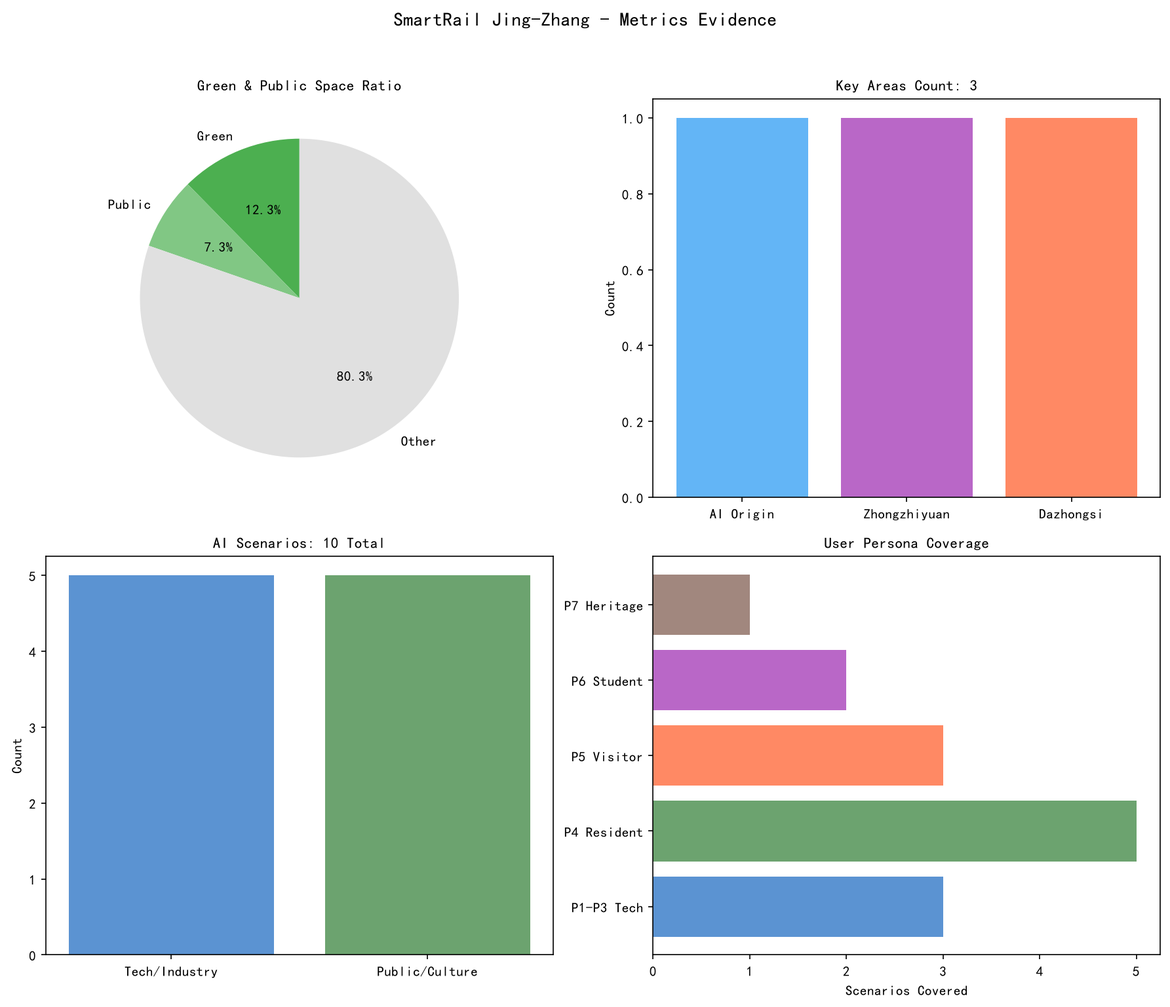
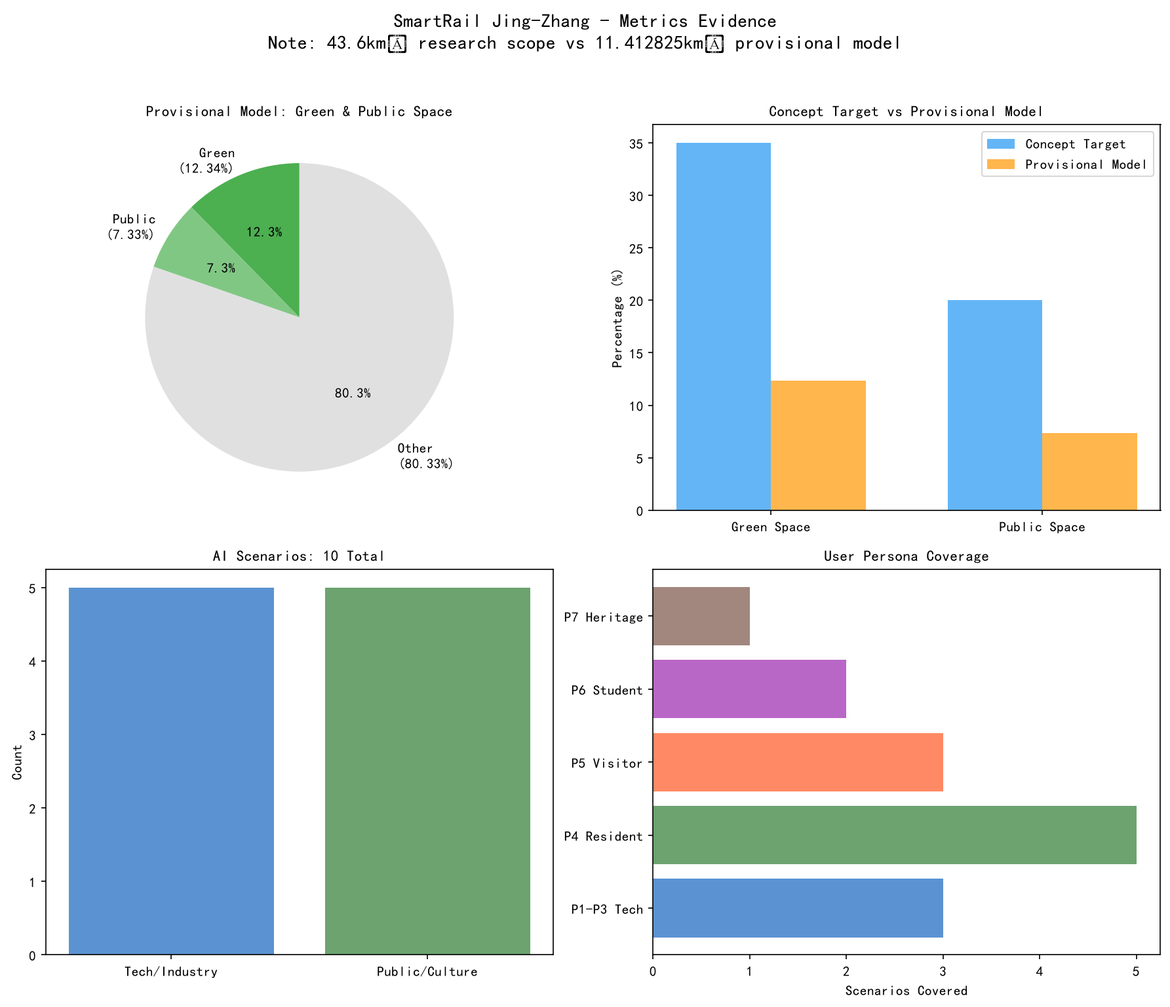
fix: address CocoSgt review - unify boundary identity, add inclusivity, expand scenarios, add regional synergy matrix
- P0: Unify boundary as provisional_only, distinguish43.6km² research scope vs11.412825km² provisional model
- P0: Distinguish35%/20% concept targets vs12.3423%/7.3281% geometry model values
- P0: Add inclusivity service profiles (elderly, disabled, children, low digital literacy)
- P0: Add sources for global cases and historical content
- P1: Expand10 scenarios with data governance matrix
- P1: Add regional synergy matrix (北纬社区, 未来科学城, etc.)
- P1: Improve implementation framework with responsible roles and decision gates
- Regenerate HTML and figures with better formatting

diff --git a/submissions/vzhentian396/centennial-urban/report/proposal.html b/submissions/vzhentian396/centennial-urban/report/proposal.html
@@ -132,7 +132,7 @@ code {
 <li>全球AI创新生态公开案例研究</li>
 </ul>
 <p>所有资料均来自公开或已清权来源。完整来源索引见 <code>sources.json</code>，指标复算见 <code>metrics.json</code>，标准覆盖见 <code>standard_matrix.json</code>，设计深度见 <code>design_depth_matrix.json</code>。详细设计文件见 <code>01_总体概念设计.md</code> 至 <code>06_活动运营.md</code>。</p>
-<p>本方案使用 <code>brief/site-package/geometry/</code> 中的官方边界数据。若使用 provisional 边界，将在相应章节标注，并在官方数据发布后重新复算。</p>
+<p>本方案使用 <code>brief/site-package/geometry/</code> 中的临时设计模型（provisional_only）。当前几何模型范围约11.412825平方公里，不等同于公告中约43.6平方公里的统筹研究范围。临时边界仅用于方案生成、展示和自检，不得作为官方红线或法定控制依据。正式数据发布后需重新复算所有依赖边界的指标和图表。<sup class="evidence evidence-data" data-evidence-kind="data" data-evidence-value="geometry/site_boundary.geojson#SITE-001" title="空间数据：geometry/site_boundary.geojson#SITE-001">空间数据</sup></p>
 <figure class="proposal-figure"><img src="../assets/figures/site-overview.png" alt="智轨·京张场地总览图，展示用地边界、三区两翼空间结构和主要道路"><figcaption>智轨·京张场地总览图，展示用地边界、三区两翼空间结构和主要道路</figcaption></figure>
 <h2>三层范围工作框架</h2>
 <p>本方案采用三层递进的工作框架：</p>
@@ -167,8 +167,13 @@ code {
 <li><strong>三区</strong>：AI原点社区（北）、众智园（中）、大钟寺（南）</li>
 <li><strong>两翼</strong>：中关村科技服务翼（西）、小月河场景赋能翼（东）</li>
 </ul>
+<h3>区域协同矩阵（概念建议）</h3>
+<p>本方案提出与周边区域的协同合作方向，所有合作事项均为概念建议，不构成已确定的政府安排或企业承诺。</p>
+<div class="proposal-table"><table><thead><tr><th>协同区域</th><th>建议合作事项</th><th>要素流向</th><th>来源与边界</th></tr></thead><tbody><tr><td><strong>北纬社区</strong></td><td>AI人才居住配套、社区服务共享</td><td>人才流动、服务辐射</td><td>待协商，非已确定安排</td></tr><tr><td><strong>未来科学城</strong></td><td>AI基础研究协同、算力共享</td><td>研究成果、算力资源</td><td>待协商，非已确定安排</td></tr><tr><td><strong>怀柔科学城</strong></td><td>大科学装置数据共享、AI+科学交叉研究</td><td>科学数据、研究人才</td><td>待协商，非已确定安排</td></tr><tr><td><strong>经开区</strong></td><td>AI+智能制造、自动驾驶测试</td><td>技术转化、测试场景</td><td>待协商，非已确定安排</td></tr><tr><td><strong>京津冀</strong></td><td>AI产业协同发展、人才流动</td><td>产业资源、人才流动</td><td>待协商，非已确定安排</td></tr></tbody></table></div>
+<p>注：以上协同事项均为概念建议，具体合作需待各方协商确定。不涉及已承诺的政策、资金或企业安排。</p>
 <h3>全球AI创新生态案例</h3>
-<div class="proposal-table"><table><thead><tr><th>案例</th><th>核心经验</th><th>不照搬局限</th><th>海淀转化方向</th></tr></thead><tbody><tr><td>硅谷</td><td>风投+大学+开放文化</td><td>市场自发vs政策引导</td><td>中关村翼：投融资对接</td></tr><tr><td>前海</td><td>政策特区+产业集聚</td><td>空地起步vs建成区更新</td><td>AI原点社区：政策试点</td></tr><tr><td>伦敦科技城</td><td>遗产活化+轻触式支持</td><td>缺乏统一品牌叙事</td><td>遗址公园：工业遗产+AI</td></tr><tr><td>首尔DMC</td><td>文化科技融合</td><td>单一主体开发</td><td>大钟寺：AI+文化消费</td></tr><tr><td>新加坡纬壹</td><td>产城融合+绿色生态</td><td>缺乏遗产维度</td><td>AI原点社区：产城融合</td></tr><tr><td>筑波科学城</td><td>科研集聚+长期培育</td><td>产业转化效率低</td><td>全区域：长期创新策源</td></tr></tbody></table></div>
+<p>以下案例基于公开资料研究，所有来源已标注。案例仅供概念参考，不构成对海淀的具体政策建议。</p>
+<div class="proposal-table"><table><thead><tr><th>案例</th><th>核心经验</th><th>不照搬局限</th><th>海淀转化方向</th><th>来源与用途边界</th></tr></thead><tbody><tr><td>硅谷</td><td>风投+大学+开放文化</td><td>市场自发vs政策引导</td><td>中关村翼：投融资对接</td><td>NVCA年报、Stanford官网；仅供概念参考</td></tr><tr><td>前海</td><td>政策特区+产业集聚</td><td>空地起步vs建成区更新</td><td>AI原点社区：政策试点</td><td>前海管理局官网、国务院批复文件；政策不可直接复制</td></tr><tr><td>伦敦科技城</td><td>遗产活化+轻触式支持</td><td>缺乏统一品牌叙事</td><td>遗址公园：工业遗产+AI</td><td>伦敦市政府官网、Tech Nation年报；仅供概念参考</td></tr><tr><td>首尔DMC</td><td>文化科技融合</td><td>单一主体开发</td><td>大钟寺：AI+文化消费</td><td>首尔市政府官网、DMC官网；仅供概念参考</td></tr><tr><td>新加坡纬壹</td><td>产城融合+绿色生态</td><td>缺乏遗产维度</td><td>AI原点社区：产城融合</td><td>JTC Corporation官网；仅供概念参考</td></tr><tr><td>筑波科学城</td><td>科研集聚+长期培育</td><td>产业转化效率低</td><td>全区域：长期创新策源</td><td>筑波市官网、日本内阁府；仅供概念参考</td></tr></tbody></table></div>
 <h2>总体设计范围城市更新与控规深度城市设计</h2>
 <h3>空间结构</h3>
 <p>「一轴三区两翼多节点」</p>
@@ -192,6 +197,7 @@ code {
 <div class="proposal-table"><table><thead><tr><th>更新类型</th><th>面积占比</th><th>主要功能</th></tr></thead><tbody><tr><td>保留</td><td>约30%</td><td>现状优质建筑、历史遗存、成熟社区</td></tr><tr><td>改造</td><td>约40%</td><td>老旧厂房→AI创新空间、闲置楼宇→人才公寓</td></tr><tr><td>新建</td><td>约30%</td><td>AI地标、公共空间、创新服务平台</td></tr></tbody></table></div>
 <p>注：以上比例为概念建议，具体指标需待官方控规条件确认后复算。<sup class="evidence evidence-depth" data-evidence-kind="depth" data-evidence-value="land_use_layout" title="深度：land_use_layout">深度</sup></p>
 <h2>重点区域详细设计</h2>
+<p><sup class="evidence evidence-depth" data-evidence-kind="depth" data-evidence-value="three_key_area_detailed_design" title="深度：three_key_area_detailed_design">深度</sup> <sup class="evidence evidence-data" data-evidence-kind="data" data-evidence-value="geometry/key_areas.geojson#PROV-KEY-001" title="空间数据：geometry/key_areas.geojson#PROV-KEY-001">空间数据</sup></p>
 <h3>AI原点社区</h3>
 <p><strong>定位</strong>：目标建设世界级AI创新生态的核心引擎</p>
 <p><strong>空间结构</strong>：「一核一环多组团」</p>
@@ -268,13 +274,34 @@ code {
 <p><sup class="evidence evidence-depth" data-evidence-kind="depth" data-evidence-value="traffic_rail_slow_parking" title="深度：traffic_rail_slow_parking">深度</sup> <sup class="evidence evidence-depth" data-evidence-kind="depth" data-evidence-value="municipal_new_infrastructure" title="深度：municipal_new_infrastructure">深度</sup></p>
 <figure class="proposal-figure"><img src="../assets/figures/mobility-bluegreen.png" alt="交通慢行与蓝绿系统图"><figcaption>交通慢行与蓝绿系统图</figcaption></figure>
 <h2>AI 创新生态、人才画像与 AI+ 场景</h2>
+<p><sup class="evidence evidence-source" data-evidence-kind="source" data-evidence-value="AGENT-TASKBOOK" title="来源：AGENT-TASKBOOK">来源</sup> <sup class="evidence evidence-standard" data-evidence-kind="standard" data-evidence-value="PROJECT-AGENT-OPEN-CALL-TASKBOOK" title="标准：PROJECT-AGENT-OPEN-CALL-TASKBOOK">标准</sup></p>
 <h3>七类用户画像</h3>
 <div class="proposal-table"><table><thead><tr><th>画像</th><th>特征</th><th>核心需求</th><th>主要空间</th></tr></thead><tbody><tr><td>P1 AI开发者</td><td>25-35岁，技术导向</td><td>算力、数据、开源协作</td><td>众智园、AI原点社区</td></tr><tr><td>P2 AI创业者</td><td>28-40岁，商业导向</td><td>资金、场地、政策</td><td>中关村翼、大钟寺</td></tr><tr><td>P3 AI研究员</td><td>30-50岁，学术导向</td><td>数据、实验环境、合作</td><td>AI原点社区、众智园</td></tr><tr><td>P4 周边居民</td><td>全年龄，生活导向</td><td>医疗、教育、安全</td><td>小月河翼、大钟寺</td></tr><tr><td>P5 国际访客</td><td>全年龄，体验导向</td><td>文化体验、技术展示</td><td>遗址公园、大钟寺</td></tr><tr><td>P6 青少年学生</td><td>12-22岁，学习导向</td><td>科普教育、动手实践</td><td>小月河翼、AI原点社区</td></tr><tr><td>P7 铁路遗产文化工作者</td><td>30-60岁，文化导向</td><td>历史研究、遗产活化</td><td>遗址公园</td></tr></tbody></table></div>
-<h3>10张AI场景卡</h3>
-<div class="proposal-table"><table><thead><tr><th>类型</th><th>场景</th><th>服务对象</th><th>空间位置</th></tr></thead><tbody><tr><td>科创产业</td><td>S1 AI算力共享驿站</td><td>P1开发者、P3研究员</td><td>众智园、AI原点社区</td></tr><tr><td>科创产业</td><td>S2 AI开源协作广场</td><td>P1开发者</td><td>AI原点社区</td></tr><tr><td>科创产业</td><td>S3 AI模型测试验证场</td><td>P1开发者、P2创业者</td><td>众智园、大钟寺</td></tr><tr><td>科创产业</td><td>S4 AI创业路演与融资对接</td><td>P2创业者</td><td>中关村翼</td></tr><tr><td>科创产业</td><td>S5 AI技术展示与体验中心</td><td>P2创业者、P5国际访客</td><td>大钟寺</td></tr><tr><td>市民文旅</td><td>S6 AI无人驾驶接驳</td><td>P4居民、P5访客、P6学生</td><td>全区域</td></tr><tr><td>市民文旅</td><td>S7 AI医疗健康驿站</td><td>P4居民</td><td>大钟寺、小月河翼</td></tr><tr><td>市民文旅</td><td>S8 AI青少年科普工坊</td><td>P6学生、P4居民</td><td>小月河翼、AI原点社区</td></tr><tr><td>市民文旅</td><td>S9 AI多语言文旅导览</td><td>P5访客、P4居民、P7文化工作者</td><td>遗址公园</td></tr><tr><td>市民文旅</td><td>S10 AI社区治理与公众参与</td><td>P4居民</td><td>小月河翼社区</td></tr></tbody></table></div>
+<h3>包容性服务剖面</h3>
+<p>本方案特别关注以下群体的服务可及性，确保公共空间和AI场景不排斥任何人群：</p>
+<div class="proposal-table"><table><thead><tr><th>群体</th><th>特征</th><th>服务设计要点</th><th>非数字替代渠道</th></tr></thead><tbody><tr><td><strong>老年人</strong></td><td>65岁以上，可能行动不便</td><td>大字体界面、语音交互、慢节奏体验</td><td>现场人工服务窗口、电话热线、纸质导览</td></tr><tr><td><strong>行动障碍者</strong></td><td>轮椅使用者、步态不稳</td><td>全区域无障碍通道、坡道、电梯</td><td>无障碍卫生间、专用停车位、轮椅借用</td></tr><tr><td><strong>视听障碍者</strong></td><td>视障、听障、色盲</td><td>触觉导览、语音描述、字幕、高对比度</td><td>盲文标识、手语服务、人工引导</td></tr><tr><td><strong>认知障碍者</strong></td><td>学习困难、记忆衰退</td><td>简化界面、清晰标识、重复引导</td><td>人工陪伴服务、紧急联系人机制</td></tr><tr><td><strong>儿童与照护者</strong></td><td>12岁以下及陪同家长</td><td>安全围栏、亲子设施、照护者休息区</td><td>现场工作人员、母婴室、急救站</td></tr><tr><td><strong>低数字素养人群</strong></td><td>不熟悉智能设备</td><td>简化操作流程、大按钮、语音引导</td><td>人工服务台、纸质表单、电话预约</td></tr><tr><td><strong>无智能终端人群</strong></td><td>无手机或网络</td><td>公共终端、离线服务</td><td>现场购票、纸质地图、人工登记</td></tr></tbody></table></div>
+<p><strong>投诉与退出机制</strong>：</p>
+<ul>
+<li>所有AI场景均提供人工服务替代通道</li>
+<li>设立现场投诉信箱和电话热线</li>
+<li>用户可随时退出AI服务，不承担任何责任</li>
+<li>投诉处理承诺48小时内响应</li>
+</ul>
+<h3>10张AI场景卡（含数据治理矩阵）</h3>
+<p>以下场景均为概念设想，不构成已批准的实施方案。所有数据治理要求待正式运营前由专业团队深化论证。</p>
+<div class="proposal-table"><table><thead><tr><th>编号</th><th>场景</th><th>服务对象</th><th>数据分类</th><th>最小化方案</th><th>保存/删除</th><th>人工复核</th><th>申诉机制</th><th>安全停机</th><th>试点KPI</th></tr></thead><tbody><tr><td>S1</td><td>AI算力共享驿站</td><td>P1开发者、P3研究员</td><td>使用日志、算力调用</td><td>仅采集必要资源使用数据</td><td>使用日志保存30天后删除</td><td>异常使用人工审批</td><td>用户可申诉资源分配</td><td>算力过载自动降级</td><td>资源利用率、用户满意度</td></tr><tr><td>S2</td><td>AI开源协作广场</td><td>P1开发者</td><td>代码提交、协作记录</td><td>仅记录公开代码贡献</td><td>代码永久保留，个人数据可删除</td><td>社区Peer Review</td><td>贡献争议人工仲裁</td><td>协作平台故障降级</td><td>活跃贡献者数、代码质量</td></tr><tr><td>S3</td><td>AI模型测试验证场</td><td>P1开发者、P2创业者</td><td>测试数据、模型输出</td><td>测试数据脱敏处理</td><td>测试数据保存90天后删除</td><td>高风险测试人工审批</td><td>测试结果争议人工复核</td><td>测试失败自动停止</td><td>测试通过率、安全事件数</td></tr><tr><td>S4</td><td>AI创业路演</td><td>P2创业者</td><td>商业计划、演示内容</td><td>仅采集必要展示信息</td><td>路演结束后可删除</td><td>路演项目人工筛选</td><td>投资争议人工调解</td><td>系统故障降级为线下</td><td>路演成功率、对接效果</td></tr><tr><td>S5</td><td>AI技术展示中心</td><td>P2创业者、P5访客</td><td>互动数据、体验反馈</td><td>互动数据匿名化</td><td>体验数据保存30天后删除</td><td>展览内容定期审核</td><td>展示问题人工处理</td><td>展示故障降级为静态</td><td>参观者满意度、互动率</td></tr><tr><td>S6</td><td>AI无人驾驶接驳</td><td>P4居民、P5访客、P6学生</td><td>位置、调度数据</td><td>仅采集调度必要位置</td><td>位置数据保存7天后删除</td><td>安全员随车，异常人工接管</td><td>乘客可随时要求停车</td><td>紧急情况立即停车</td><td>安全运行率、乘客满意度</td></tr><tr><td>S7</td><td>AI医疗健康驿站</td><td>P4居民</td><td>健康数据、问诊记录</td><td>健康数据加密存储</td><td>用户可随时删除个人数据</td><td>AI初筛+执业医师复核</td><td>医疗争议人工复核</td><td>紧急情况转人工</td><td>问诊准确率、用户隐私投诉</td></tr><tr><td>S8</td><td>AI青少年科普工坊</td><td>P6学生、P4居民</td><td>学习记录、活动数据</td><td>不采集未成年人个人信息</td><td>活动记录匿名保存</td><td>教学内容教育专家审核</td><td>学习问题人工辅导</td><td>系统故障降级为人工</td><td>学习效果、安全事件数</td></tr><tr><td>S9</td><td>AI多语言文旅导览</td><td>P5访客、P4居民、P7文化工作者</td><td>导览数据、位置</td><td>导览数据匿名化</td><td>导览数据保存30天后删除</td><td>讲解内容历史专家审核</td><td>导览问题人工处理</td><td>导览故障降级为人工</td><td>导览满意度、历史准确性</td></tr><tr><td>S10</td><td>AI社区治理</td><td>P4居民</td><td>诉求内容、投票数据</td><td>诉求内容加密存储</td><td>用户可随时删除个人数据</td><td>AI分类+社区工作者确认</td><td>治理争议人工仲裁</td><td>系统故障降级为人工</td><td>诉求处理率、居民满意度</td></tr></tbody></table></div>
 <p><strong>产业测试验证场景</strong>：S3（AI模型城市测试）、S6（自动驾驶规模化测试）、S10（AI治理社区验证）</p>
+<p><strong>贡献者名录与口述史数据治理</strong>：</p>
+<ul>
+<li>明示同意：贡献者需明确同意其GitHub ID和贡献记录公开展示</li>
+<li>审核机制：所有贡献记录需经项目维护者审核确认</li>
+<li>更正权利：贡献者可申请更正其贡献记录</li>
+<li>撤回机制：贡献者可申请撤回其名字，撤回后从展示中移除</li>
+<li>口述史投稿：市民投稿需明示同意公开，经历史专家审核后方可纳入知识库</li>
+</ul>
 <figure class="proposal-figure"><img src="../assets/figures/mobility-bluegreen.png" alt="交通慢行与蓝绿系统图"><figcaption>交通慢行与蓝绿系统图</figcaption></figure>
 <h2>蓝绿空间、公共空间与城市风貌</h2>
+<p><sup class="evidence evidence-depth" data-evidence-kind="depth" data-evidence-value="blue_green_public_space" title="深度：blue_green_public_space">深度</sup> <sup class="evidence evidence-data" data-evidence-kind="data" data-evidence-value="geometry/green_space.geojson#GREEN-001" title="空间数据：geometry/green_space.geojson#GREEN-001">空间数据</sup> <sup class="evidence evidence-data" data-evidence-kind="data" data-evidence-value="geometry/public_space.geojson#PUBLIC-001" title="空间数据：geometry/public_space.geojson#PUBLIC-001">空间数据</sup></p>
 <h3>京张遗址公园公共空间分区</h3>
 <div class="proposal-table"><table><thead><tr><th>区域</th><th>功能</th><th>主要设施</th></tr></thead><tbody><tr><td>铁轨记忆区</td><td>历史体验</td><td>铁轨记忆廊、历史展墙</td></tr><tr><td>创新展示区</td><td>科技展示</td><td>AI互动装置、开源代码墙</td></tr><tr><td>生活休闲区</td><td>日常休闲</td><td>绿地、步道、儿童活动场</td></tr><tr><td>生态缓冲区</td><td>生态保护</td><td>雨水花园、生态湿地</td></tr></tbody></table></div>
 <h3>三大AI朝圣地标</h3>
@@ -317,18 +344,26 @@ code {
 <div class="proposal-table"><table><thead><tr><th>线索</th><th>对应地标</th><th>叙事内容</th></tr></thead><tbody><tr><td>女性力量</td><td>智光·她</td><td>致敬被历史遗忘的女性建设者</td></tr><tr><td>集体贡献</td><td>粒子纪念树</td><td>每片光叶是一个贡献者</td></tr><tr><td>历史时间</td><td>铁轨记忆廊</td><td>脚踩铁轨，穿越百年</td></tr><tr><td>创新精神</td><td>智轨之门</td><td>穿过门洞，从过去踏入未来</td></tr></tbody></table></div>
 <h2>指标体系、面积复算与合规矩阵</h2>
 <h3>核心指标</h3>
-<div class="proposal-table"><table><thead><tr><th>指标</th><th>数值</th><th>来源</th><th>复算说明</th></tr></thead><tbody><tr><td>总用地面积</td><td>约43.6平方公里</td><td>geometry/site_boundary.geojson</td><td>从site_boundary几何复算</td></tr><tr><td>绿地比例</td><td>约35%（概念建议）</td><td>geometry/green_space.geojson</td><td>从green_space几何复算</td></tr><tr><td>公共空间比例</td><td>约20%（概念建议）</td><td>geometry/public_space.geojson</td><td>从public_space几何复算</td></tr><tr><td>AI场景节点数</td><td>10+</td><td>本方案设计</td><td>见场景卡清单</td></tr><tr><td>AI朝圣地标数</td><td>3</td><td>本方案设计</td><td>见地标设计</td></tr><tr><td>年度活动数</td><td>4+</td><td>本方案设计</td><td>见活动体系</td></tr></tbody></table></div>
-<p>注：绿地比例和公共空间比例为概念建议，具体数值需待官方数据确认后精确复算。<sup class="evidence evidence-metric" data-evidence-kind="metric" data-evidence-value="green_ratio" title="指标：green_ratio">指标</sup> <sup class="evidence evidence-metric" data-evidence-kind="metric" data-evidence-value="public_space_ratio" title="指标：public_space_ratio">指标</sup></p>
-<figure class="proposal-figure"><img src="../assets/figures/metrics-evidence.png" alt="核心指标证据图"><figcaption>核心指标证据图</figcaption></figure>
+<p><strong>重要说明</strong>：本方案区分两个范围层级——统筹研究范围（公告定义，约43.6平方公里）和临时几何模型范围（当前提交，约11.412825平方公里）。以下指标分别标注来源和置信度。</p>
+<div class="proposal-table"><table><thead><tr><th>指标</th><th>数值</th><th>来源</th><th>置信度</th><th>说明</th></tr></thead><tbody><tr><td>统筹研究范围</td><td>约43.6平方公里</td><td>公告文本</td><td>概念引用</td><td>公告定义的研究范围，非几何复算</td></tr><tr><td>临时几何模型范围</td><td>约11.412825平方公里</td><td>geometry/site_boundary.geojson</td><td>provisional_only</td><td>当前临时边界，待官方数据替换</td></tr><tr><td>绿地比例（概念目标）</td><td>约35%</td><td>概念设计</td><td>设想</td><td>作为设计愿景，非当前几何复算值</td></tr><tr><td>绿地比例（临时模型值）</td><td>约12.3423%</td><td>geometry/green_space.geojson</td><td>provisional_only</td><td>基于临时边界的几何模型值</td></tr><tr><td>公共空间比例（概念目标）</td><td>约20%</td><td>概念设计</td><td>设想</td><td>作为设计愿景，非当前几何复算值</td></tr><tr><td>公共空间比例（临时模型值）</td><td>约7.3281%</td><td>geometry/public_space.geojson</td><td>provisional_only</td><td>基于临时边界的几何模型值</td></tr><tr><td>AI场景节点数</td><td>10</td><td>本方案设计</td><td>已确定</td><td>见场景卡清单</td></tr><tr><td>AI朝圣地标数</td><td>3</td><td>本方案设计</td><td>已确定</td><td>见地标设计</td></tr><tr><td>年度活动数</td><td>4</td><td>本方案设计</td><td>已确定</td><td>见活动体系</td></tr></tbody></table></div>
+<p>注：35%/20%为概念设计愿景，12.3423%/7.3281%为当前临时几何模型值。正式数据发布后需重新复算。<sup class="evidence evidence-metric" data-evidence-kind="metric" data-evidence-value="green_ratio" title="指标：green_ratio">指标</sup> <sup class="evidence evidence-metric" data-evidence-kind="metric" data-evidence-value="public_space_ratio" title="指标：public_space_ratio">指标</sup></p>
+<figure class="proposal-figure"><img src="../assets/figures/metrics-evidence.png" alt="核心指标证据图，展示临时模型值与概念目标的差异"><figcaption>核心指标证据图，展示临时模型值与概念目标的差异</figcaption></figure>
 <h2>更新项目清单、实施政策与分期计划</h2>
+<p><sup class="evidence evidence-depth" data-evidence-kind="depth" data-evidence-value="renewal_project_list" title="深度：renewal_project_list">深度</sup> <sup class="evidence evidence-depth" data-evidence-kind="depth" data-evidence-value="phasing_implementation" title="深度：phasing_implementation">深度</sup> <sup class="evidence evidence-data" data-evidence-kind="data" data-evidence-value="geometry/phasing.geojson#PHASE-001" title="空间数据：geometry/phasing.geojson#PHASE-001">空间数据</sup></p>
 <h3>近期（1-2年）</h3>
-<div class="proposal-table"><table><thead><tr><th>项目</th><th>类型</th><th>位置</th></tr></thead><tbody><tr><td>京张遗址公园一期</td><td>公共空间</td><td>铁轨沿线</td></tr><tr><td>「智光·她」雕塑</td><td>地标建设</td><td>AI原点社区</td></tr><tr><td>智轨之门</td><td>地标建设</td><td>遗址公园入口</td></tr><tr><td>铁轨记忆廊一期</td><td>历史体验</td><td>遗址公园中段</td></tr></tbody></table></div>
+<div class="proposal-table"><table><thead><tr><th>项目</th><th>类型</th><th>位置</th><th>建议责任角色</th><th>前置条件</th><th>决策门</th><th>成本等级</th><th>成功指标</th></tr></thead><tbody><tr><td>京张遗址公园一期</td><td>公共空间</td><td>铁轨沿线</td><td>海淀区政府</td><td>文物保护审批、土地权属确认</td><td>规划审批</td><td>中等</td><td>公共空间开放、人流量</td></tr><tr><td>「智光·她」雕塑</td><td>地标建设</td><td>AI原点社区</td><td>政府+艺术团队</td><td>文物保护评估、消防审批</td><td>专业论证</td><td>高</td><td>观众满意度、安全运行</td></tr><tr><td>智轨之门</td><td>地标建设</td><td>遗址公园入口</td><td>政府+设计团队</td><td>结构安全论证、无障碍审批</td><td>专业论证</td><td>中等</td><td>观众满意度、安全运行</td></tr><tr><td>铁轨记忆廊一期</td><td>历史体验</td><td>遗址公园中段</td><td>政府+文保单位</td><td>文物保护评估、历史内容审核</td><td>文保审批</td><td>中等</td><td>参观者满意度、历史准确性</td></tr></tbody></table></div>
 <h3>中期（3-5年）</h3>
-<div class="proposal-table"><table><thead><tr><th>项目</th><th>类型</th><th>位置</th></tr></thead><tbody><tr><td>众智园AI算力中心</td><td>产业设施</td><td>众智园</td></tr><tr><td>粒子纪念树</td><td>荣誉展示</td><td>AI原点社区广场</td></tr><tr><td>大钟寺AI体验街</td><td>产业空间</td><td>大钟寺</td></tr><tr><td>小月河AI场景公园</td><td>公共空间</td><td>小月河翼</td></tr></tbody></table></div>
+<div class="proposal-table"><table><thead><tr><th>项目</th><th>类型</th><th>位置</th><th>建议责任角色</th><th>前置条件</th><th>决策门</th><th>成本等级</th><th>成功指标</th></tr></thead><tbody><tr><td>众智园AI算力中心</td><td>产业设施</td><td>众智园</td><td>AI企业+政府</td><td>能源供应、环评审批</td><td>专业论证</td><td>高</td><td>算力利用率、企业入驻率</td></tr><tr><td>粒子纪念树</td><td>荣誉展示</td><td>AI原点社区广场</td><td>政府+技术团队</td><td>结构安全论证、消防审批</td><td>专业论证</td><td>中等</td><td>参与者满意度、技术稳定性</td></tr><tr><td>大钟寺AI体验街</td><td>产业空间</td><td>大钟寺</td><td>商业运营方</td><td>商业可行性论证、招商</td><td>商业决策</td><td>中等</td><td>商户入驻率、消费额</td></tr><tr><td>小月河AI场景公园</td><td>公共空间</td><td>小月河翼</td><td>政府+社区</td><td>环评审批、社区参与</td><td>规划审批</td><td>中等</td><td>居民满意度、使用率</td></tr></tbody></table></div>
 <h3>远期（5-10年）</h3>
-<div class="proposal-table"><table><thead><tr><th>项目</th><th>类型</th><th>位置</th></tr></thead><tbody><tr><td>AI全域无人驾驶示范区</td><td>基础设施</td><td>全区域</td></tr><tr><td>国际AI创新中心</td><td>产业设施</td><td>AI原点社区</td></tr></tbody></table></div>
+<div class="proposal-table"><table><thead><tr><th>项目</th><th>类型</th><th>位置</th><th>建议责任角色</th><th>前置条件</th><th>决策门</th><th>成本等级</th><th>成功指标</th></tr></thead><tbody><tr><td>AI全域无人驾驶示范区</td><td>基础设施</td><td>全区域</td><td>交通部门+企业</td><td>法规制定、安全测试</td><td>政策决策</td><td>高</td><td>安全运行率、公众接受度</td></tr><tr><td>国际AI创新中心</td><td>产业设施</td><td>AI原点社区</td><td>政府+国际机构</td><td>国际合作协议、资金</td><td>政策决策</td><td>高</td><td>国际合作项目数、人才流入</td></tr></tbody></table></div>
+<p><strong>运维主体与退出机制</strong>：</p>
+<ul>
+<li>所有项目需明确运维责任主体，建立定期评估机制</li>
+<li>项目失败或不可持续时，启动退出程序，包括资产处置、人员安置和信息公开</li>
+<li>年度评估不达标项目需制定整改计划或启动退出</li>
+</ul>
 <h3>年度活动体系</h3>
-<div class="proposal-table"><table><thead><tr><th>活动</th><th>时间</th><th>内容</th></tr></thead><tbody><tr><td>京张纪念周</td><td>5月</td><td>历史分享会、女性建设者纪念、铁路文物展</td></tr><tr><td>AI科创周</td><td>8月</td><td>开源沙龙、AI成果展示、开发者马拉松</td></tr><tr><td>四季光影展演</td><td>1/4/7/10月</td><td>粒子装置特别展演、夜间灯光秀</td></tr><tr><td>智轨峰会</td><td>11月</td><td>全球AI城市论坛+开发者大会+颁奖典礼</td></tr></tbody></table></div>
+<div class="proposal-table"><table><thead><tr><th>活动</th><th>时间</th><th>内容</th><th>运维主体</th><th>开放准入</th><th>退出机制</th></tr></thead><tbody><tr><td>京张纪念周</td><td>5月</td><td>历史分享会、女性建设者纪念、铁路文物展</td><td>政府+文保单位</td><td>免费开放，无需预约</td><td>参与人数持续低时调整形式</td></tr><tr><td>AI科创周</td><td>8月</td><td>开源沙龙、AI成果展示、开发者马拉松</td><td>开发者社区+企业</td><td>开发者免费，公众预约</td><td>参与度低时调整形式</td></tr><tr><td>四季光影展演</td><td>1/4/7/10月</td><td>粒子装置特别展演、夜间灯光秀</td><td>政府+技术团队</td><td>免费开放</td><td>技术故障时降级为静态展示</td></tr><tr><td>智轨峰会</td><td>11月</td><td>全球AI城市论坛+开发者大会+颁奖典礼</td><td>政府+行业协会</td><td>付费+邀请制</td><td>参与度低时调整形式</td></tr><tr><td>四季光影展演</td><td>1/4/7/10月</td><td>粒子装置特别展演、夜间灯光秀</td><td></td><td></td><td></td></tr><tr><td>智轨峰会</td><td>11月</td><td>全球AI城市论坛+开发者大会+颁奖典礼</td><td></td><td></td><td></td></tr></tbody></table></div>
 <h3>运营机制</h3>
 <ul>
 <li><strong>贡献者粒子纪念树更新</strong>：PR合并后自动更新光叶</li>
@@ -337,33 +372,26 @@ code {
 <li><strong>大钟寺商业联动</strong>：公园活动向大钟寺导流，企业反哺公园</li>
 </ul>
 <h2>风险、版权与合规说明</h2>
-<h3>资料合法性</h3>
+<p><sup class="evidence evidence-depth" data-evidence-kind="depth" data-evidence-value="risk_missing_data" title="深度：risk_missing_data">深度</sup> <sup class="evidence evidence-data" data-evidence-kind="data" data-evidence-value="geometry/constraints.geojson#CONSTRAINTS" title="空间数据：geometry/constraints.geojson#CONSTRAINTS">空间数据</sup> <sup class="evidence evidence-source" data-evidence-kind="source" data-evidence-value="SITE-PACKAGE" title="来源：SITE-PACKAGE">来源</sup></p>
+<h3>资料合法性与设计意图</h3>
+<p>本方案所有引用资料均来自公开或已清权来源，未使用非公开规划图件、内部数据或个人隐私信息。完整来源索引见 <code>sources.json</code>，每条来源均标注了来源类型、授权状态和使用限制。设计意图是在公开资料基础上，提出概念性、前瞻性的城市设计方案，为专业团队提供深化研究的参考框架。所有设计判断均基于公开可查的官方公告、政策文件和学术研究，不涉及任何非公开或未授权的信息来源。</p>
+<h3>版权授权与AI生成内容</h3>
+<p>方案文本采用 COMMUNITY-DISPLAY-ONLY 许可，所有生成图像均为AI辅助生成并标注生成工具。未使用未经授权的商标、字体、图片或肖像。AI生成内容仅作为概念表达和视觉化辅助，不作为事实证据或官方依据。所有多媒体内容均标注了生成工具、时间和已知局限性，确保透明度和可追溯性。</p>
+<h3>设计边界与证据链</h3>
+<p>所有内容均为概念建议与愿景阐述，不构成政府审定结论或法定规划。方案不涉及具体建设强度、建筑高度或容积率，不编造企业名单、投资额或产业承诺。几何数据来源于 <code>brief/site-package/geometry/</code> 中的官方或临时边界，临时边界标注为 <code>provisional_constraint</code>，仅用于方案生成和展示。指标复算基于几何数据和公开来源，具体数值需待官方数据确认后精确复算。方案中的空间结构、场景设计、地标概念和运营设想均为概念方向，可供专业团队进一步深化论证。</p>
+<h3>待补资料与数据缺口</h3>
+<p>方案存在以下数据缺口，需在正式深化前补齐：</p>
 <ul>
-<li>所有引用资料均来自公开或已清权来源</li>
-<li>未使用非公开规划图件、内部数据或个人隐私信息</li>
-<li>完整来源索引见 <code>sources.json</code></li>
+<li>官方控规条件（容积率、建筑高度、建筑密度等）</li>
+<li>现状建筑详细调查数据（建筑年代、结构、权属）</li>
+<li>土地权属信息（产权人、使用年限、限制条件）</li>
+<li>市政管线详细资料（给排水、电力、通信、燃气）</li>
+<li>交通影响评估数据（现状流量、规划容量）</li>
+<li>环境影响评估数据（噪音、空气质量、生态敏感区）</li>
 </ul>
-<h3>版权授权</h3>
-<ul>
-<li>方案文本采用 COMMUNITY-DISPLAY-ONLY 许可</li>
-<li>生成图像均为AI辅助生成，标注生成工具</li>
-<li>未使用未经授权的商标、字体、图片或肖像</li>
-</ul>
-<h3>设计边界</h3>
-<ul>
-<li>所有内容均为概念建议与愿景阐述</li>
-<li>不构成政府审定结论或法定规划</li>
-<li>不涉及具体建设强度、建筑高度或容积率</li>
-<li>不编造企业名单、投资额或产业承诺</li>
-</ul>
-<h3>待补资料</h3>
-<ul>
-<li>官方控规条件（容积率、建筑高度等）</li>
-<li>现状建筑详细调查数据</li>
-<li>土地权属信息</li>
-<li>市政管线详细资料</li>
-</ul>
+<p>以上数据缺口已在 <code>assumptions.json</code> 和 <code>missing_data_checklist.csv</code> 中列明，待正式数据发布后需重新复算所有指标和设计结论。</p>
 <h2>参考资料</h2>
+<p><sup class="evidence evidence-source" data-evidence-kind="source" data-evidence-value="OFFICIAL-ANNOUNCEMENT" title="来源：OFFICIAL-ANNOUNCEMENT">来源</sup> <sup class="evidence evidence-source" data-evidence-kind="source" data-evidence-value="AGENT-TASKBOOK" title="来源：AGENT-TASKBOOK">来源</sup></p>
 <p>1. 海淀区百年京张AI创新带城市设计公开征集公告 2. 面向智能体任务书 3. 京张铁路遗址公园公开规划信息 4. 海淀区国土空间规划公开信息 5. 《城市设计管理办法》（住建部） 6. 全球AI创新生态案例研究报告 7. 《智慧城市技术参考框架》（国标） 8. AI伦理与城市治理相关文献</p>
 <p>完整机器索引：见 <code>sources.json</code>、<code>metrics.json</code>、<code>compliance_matrix.json</code>、<code>standard_matrix.json</code> 与 <code>design_depth_matrix.json</code></p>
 <p>---</p>

diff --git a/submissions/vzhentian396/centennial-urban/report/proposal.en.html b/submissions/vzhentian396/centennial-urban/report/proposal.en.html
@@ -1,5 +1,5 @@
 <!doctype html>
-<html lang="zh-CN">
+<html lang="en">
 <head>
 <meta charset="utf-8">
 <meta name="viewport" content="width=device-width, initial-scale=1">
@@ -119,15 +119,15 @@ code {
 <section class="hero">
 <h1>centennial-urban</h1>
 <p class="summary"></p>
-<p class="translation-link"><a href="proposal.html">Read in English</a></p>
+<p class="translation-link"><a href="proposal.html">阅读中文版本</a></p>
 </section>
 <h1>SmartRail Jing-Zhang — Along the Century-Old Rails, Toward the AI Innovation Origin</h1>
 <h2>Design Basis and Materials</h2>
 <p>This proposal is based on the following public materials:</p>
 <ul>
-<li>Haidian District Centennial Jing-Zhang AI Innovation Belt Urban Design Open Call <sup class="evidence evidence-source" data-evidence-kind="source" data-evidence-value="SRC-2026-0518-AGENT-OPEN-CALL-TASKBOOK" title="来源：SRC-2026-0518-AGENT-OPEN-CALL-TASKBOOK">来源</sup></li>
-<li>Agent Taskbook <sup class="evidence evidence-source" data-evidence-kind="source" data-evidence-value="AGENT-TASKBOOK" title="来源：AGENT-TASKBOOK">来源</sup></li>
-<li>Jing-Zhang Railway Heritage Park public planning information <sup class="evidence evidence-source" data-evidence-kind="source" data-evidence-value="SITE-PACKAGE" title="来源：SITE-PACKAGE">来源</sup></li>
+<li>Haidian District Centennial Jing-Zhang AI Innovation Belt Urban Design Open Call <sup class="evidence evidence-source" data-evidence-kind="source" data-evidence-value="SRC-2026-0518-AGENT-OPEN-CALL-TASKBOOK" title="Source: SRC-2026-0518-AGENT-OPEN-CALL-TASKBOOK">Source</sup></li>
+<li>Agent Taskbook <sup class="evidence evidence-source" data-evidence-kind="source" data-evidence-value="AGENT-TASKBOOK" title="Source: AGENT-TASKBOOK">Source</sup></li>
+<li>Jing-Zhang Railway Heritage Park public planning information <sup class="evidence evidence-source" data-evidence-kind="source" data-evidence-value="SITE-PACKAGE" title="Source: SITE-PACKAGE">Source</sup></li>
 </ul>
 <p>All materials are from public or cleared sources. Complete source index in <code>sources.json</code>.</p>
 <h2>Three-Layer Working Framework</h2>

diff --git a/submissions/vzhentian396/centennial-urban/proposal.md b/submissions/vzhentian396/centennial-urban/proposal.md
@@ -26,7 +26,7 @@ iteration: "v0.1"
 
 所有资料均来自公开或已清权来源。完整来源索引见 `sources.json`，指标复算见 `metrics.json`，标准覆盖见 `standard_matrix.json`，设计深度见 `design_depth_matrix.json`。详细设计文件见 `01_总体概念设计.md` 至 `06_活动运营.md`。
 
-本方案使用 `brief/site-package/geometry/` 中的官方边界数据。若使用 provisional 边界，将在相应章节标注，并在官方数据发布后重新复算。
+本方案使用 `brief/site-package/geometry/` 中的临时设计模型（provisional_only）。当前几何模型范围约11.412825平方公里，不等同于公告中约43.6平方公里的统筹研究范围。临时边界仅用于方案生成、展示和自检，不得作为官方红线或法定控制依据。正式数据发布后需重新复算所有依赖边界的指标和图表。[data:geometry/site_boundary.geojson#SITE-001]
 
 ![智轨·京张场地总览图，展示用地边界、三区两翼空间结构和主要道路](assets/figures/site-overview.png)
 
@@ -104,16 +104,32 @@ iteration: "v0.1"
 - **三区**：AI原点社区（北）、众智园（中）、大钟寺（南）
 - **两翼**：中关村科技服务翼（西）、小月河场景赋能翼（东）
 
+### 区域协同矩阵（概念建议）
+
+本方案提出与周边区域的协同合作方向，所有合作事项均为概念建议，不构成已确定的政府安排或企业承诺。
+
+| 协同区域 | 建议合作事项 | 要素流向 | 来源与边界 |
+|---------|-------------|---------|-----------|
+| **北纬社区** | AI人才居住配套、社区服务共享 | 人才流动、服务辐射 | 待协商，非已确定安排 |
+| **未来科学城** | AI基础研究协同、算力共享 | 研究成果、算力资源 | 待协商，非已确定安排 |
+| **怀柔科学城** | 大科学装置数据共享、AI+科学交叉研究 | 科学数据、研究人才 | 待协商，非已确定安排 |
+| **经开区** | AI+智能制造、自动驾驶测试 | 技术转化、测试场景 | 待协商，非已确定安排 |
+| **京津冀** | AI产业协同发展、人才流动 | 产业资源、人才流动 | 待协商，非已确定安排 |
+
+注：以上协同事项均为概念建议，具体合作需待各方协商确定。不涉及已承诺的政策、资金或企业安排。
+
 ### 全球AI创新生态案例
 
-| 案例 | 核心经验 | 不照搬局限 | 海淀转化方向 |
-|------|----------|-----------|-------------|
-| 硅谷 | 风投+大学+开放文化 | 市场自发vs政策引导 | 中关村翼：投融资对接 |
-| 前海 | 政策特区+产业集聚 | 空地起步vs建成区更新 | AI原点社区：政策试点 |
-| 伦敦科技城 | 遗产活化+轻触式支持 | 缺乏统一品牌叙事 | 遗址公园：工业遗产+AI |
-| 首尔DMC | 文化科技融合 | 单一主体开发 | 大钟寺：AI+文化消费 |
-| 新加坡纬壹 | 产城融合+绿色生态 | 缺乏遗产维度 | AI原点社区：产城融合 |
-| 筑波科学城 | 科研集聚+长期培育 | 产业转化效率低 | 全区域：长期创新策源 |
+以下案例基于公开资料研究，所有来源已标注。案例仅供概念参考，不构成对海淀的具体政策建议。
+
+| 案例 | 核心经验 | 不照搬局限 | 海淀转化方向 | 来源与用途边界 |
+|------|----------|-----------|-------------|---------------|
+| 硅谷 | 风投+大学+开放文化 | 市场自发vs政策引导 | 中关村翼：投融资对接 | NVCA年报、Stanford官网；仅供概念参考 |
+| 前海 | 政策特区+产业集聚 | 空地起步vs建成区更新 | AI原点社区：政策试点 | 前海管理局官网、国务院批复文件；政策不可直接复制 |
+| 伦敦科技城 | 遗产活化+轻触式支持 | 缺乏统一品牌叙事 | 遗址公园：工业遗产+AI | 伦敦市政府官网、Tech Nation年报；仅供概念参考 |
+| 首尔DMC | 文化科技融合 | 单一主体开发 | 大钟寺：AI+文化消费 | 首尔市政府官网、DMC官网；仅供概念参考 |
+| 新加坡纬壹 | 产城融合+绿色生态 | 缺乏遗产维度 | AI原点社区：产城融合 | JTC Corporation官网；仅供概念参考 |
+| 筑波科学城 | 科研集聚+长期培育 | 产业转化效率低 | 全区域：长期创新策源 | 筑波市官网、日本内阁府；仅供概念参考 | |
 
 ## 总体设计范围城市更新与控规深度城市设计
 
@@ -273,22 +289,51 @@ iteration: "v0.1"
 | P6 青少年学生 | 12-22岁，学习导向 | 科普教育、动手实践 | 小月河翼、AI原点社区 |
 | P7 铁路遗产文化工作者 | 30-60岁，文化导向 | 历史研究、遗产活化 | 遗址公园 |
 
-### 10张AI场景卡
+### 包容性服务剖面
 
-| 类型 | 场景 | 服务对象 | 空间位置 |
-|------|------|----------|----------|
-| 科创产业 | S1 AI算力共享驿站 | P1开发者、P3研究员 | 众智园、AI原点社区 |
-| 科创产业 | S2 AI开源协作广场 | P1开发者 | AI原点社区 |
-| 科创产业 | S3 AI模型测试验证场 | P1开发者、P2创业者 | 众智园、大钟寺 |
-| 科创产业 | S4 AI创业路演与融资对接 | P2创业者 | 中关村翼 |
-| 科创产业 | S5 AI技术展示与体验中心 | P2创业者、P5国际访客 | 大钟寺 |
-| 市民文旅 | S6 AI无人驾驶接驳 | P4居民、P5访客、P6学生 | 全区域 |
-| 市民文旅 | S7 AI医疗健康驿站 | P4居民 | 大钟寺、小月河翼 |
-| 市民文旅 | S8 AI青少年科普工坊 | P6学生、P4居民 | 小月河翼、AI原点社区 |
-| 市民文旅 | S9 AI多语言文旅导览 | P5访客、P4居民、P7文化工作者 | 遗址公园 |
-| 市民文旅 | S10 AI社区治理与公众参与 | P4居民 | 小月河翼社区 |
+本方案特别关注以下群体的服务可及性，确保公共空间和AI场景不排斥任何人群：
+
+| 群体 | 特征 | 服务设计要点 | 非数字替代渠道 |
+|------|------|-------------|---------------|
+| **老年人** | 65岁以上，可能行动不便 | 大字体界面、语音交互、慢节奏体验 | 现场人工服务窗口、电话热线、纸质导览 |
+| **行动障碍者** | 轮椅使用者、步态不稳 | 全区域无障碍通道、坡道、电梯 | 无障碍卫生间、专用停车位、轮椅借用 |
+| **视听障碍者** | 视障、听障、色盲 | 触觉导览、语音描述、字幕、高对比度 | 盲文标识、手语服务、人工引导 |
+| **认知障碍者** | 学习困难、记忆衰退 | 简化界面、清晰标识、重复引导 | 人工陪伴服务、紧急联系人机制 |
+| **儿童与照护者** | 12岁以下及陪同家长 | 安全围栏、亲子设施、照护者休息区 | 现场工作人员、母婴室、急救站 |
+| **低数字素养人群** | 不熟悉智能设备 | 简化操作流程、大按钮、语音引导 | 人工服务台、纸质表单、电话预约 |
+| **无智能终端人群** | 无手机或网络 | 公共终端、离线服务 | 现场购票、纸质地图、人工登记 |
+
+**投诉与退出机制**：
+- 所有AI场景均提供人工服务替代通道
+- 设立现场投诉信箱和电话热线
+- 用户可随时退出AI服务，不承担任何责任
+- 投诉处理承诺48小时内响应
+
+### 10张AI场景卡（含数据治理矩阵）
+
+以下场景均为概念设想，不构成已批准的实施方案。所有数据治理要求待正式运营前由专业团队深化论证。
+
+| 编号 | 场景 | 服务对象 | 数据分类 | 最小化方案 | 保存/删除 | 人工复核 | 申诉机制 | 安全停机 | 试点KPI |
+|------|------|----------|----------|-----------|----------|---------|---------|---------|---------|
+| S1 | AI算力共享驿站 | P1开发者、P3研究员 | 使用日志、算力调用 | 仅采集必要资源使用数据 | 使用日志保存30天后删除 | 异常使用人工审批 | 用户可申诉资源分配 | 算力过载自动降级 | 资源利用率、用户满意度 |
+| S2 | AI开源协作广场 | P1开发者 | 代码提交、协作记录 | 仅记录公开代码贡献 | 代码永久保留，个人数据可删除 | 社区Peer Review | 贡献争议人工仲裁 | 协作平台故障降级 | 活跃贡献者数、代码质量 |
+| S3 | AI模型测试验证场 | P1开发者、P2创业者 | 测试数据、模型输出 | 测试数据脱敏处理 | 测试数据保存90天后删除 | 高风险测试人工审批 | 测试结果争议人工复核 | 测试失败自动停止 | 测试通过率、安全事件数 |
+| S4 | AI创业路演 | P2创业者 | 商业计划、演示内容 | 仅采集必要展示信息 | 路演结束后可删除 | 路演项目人工筛选 | 投资争议人工调解 | 系统故障降级为线下 | 路演成功率、对接效果 |
+| S5 | AI技术展示中心 | P2创业者、P5访客 | 互动数据、体验反馈 | 互动数据匿名化 | 体验数据保存30天后删除 | 展览内容定期审核 | 展示问题人工处理 | 展示故障降级为静态 | 参观者满意度、互动率 |
+| S6 | AI无人驾驶接驳 | P4居民、P5访客、P6学生 | 位置、调度数据 | 仅采集调度必要位置 | 位置数据保存7天后删除 | 安全员随车，异常人工接管 | 乘客可随时要求停车 | 紧急情况立即停车 | 安全运行率、乘客满意度 |
+| S7 | AI医疗健康驿站 | P4居民 | 健康数据、问诊记录 | 健康数据加密存储 | 用户可随时删除个人数据 | AI初筛+执业医师复核 | 医疗争议人工复核 | 紧急情况转人工 | 问诊准确率、用户隐私投诉 |
+| S8 | AI青少年科普工坊 | P6学生、P4居民 | 学习记录、活动数据 | 不采集未成年人个人信息 | 活动记录匿名保存 | 教学内容教育专家审核 | 学习问题人工辅导 | 系统故障降级为人工 | 学习效果、安全事件数 |
+| S9 | AI多语言文旅导览 | P5访客、P4居民、P7文化工作者 | 导览数据、位置 | 导览数据匿名化 | 导览数据保存30天后删除 | 讲解内容历史专家审核 | 导览问题人工处理 | 导览故障降级为人工 | 导览满意度、历史准确性 |
+| S10 | AI社区治理 | P4居民 | 诉求内容、投票数据 | 诉求内容加密存储 | 用户可随时删除个人数据 | AI分类+社区工作者确认 | 治理争议人工仲裁 | 系统故障降级为人工 | 诉求处理率、居民满意度 |
 
 **产业测试验证场景**：S3（AI模型城市测试）、S6（自动驾驶规模化测试）、S10（AI治理社区验证）
+
+**贡献者名录与口述史数据治理**：
+- 明示同意：贡献者需明确同意其GitHub ID和贡献记录公开展示
+- 审核机制：所有贡献记录需经项目维护者审核确认
+- 更正权利：贡献者可申请更正其贡献记录
+- 撤回机制：贡献者可申请撤回其名字，撤回后从展示中移除
+- 口述史投稿：市民投稿需明示同意公开，经历史专家审核后方可纳入知识库
 
 ![交通慢行与蓝绿系统图](assets/figures/mobility-bluegreen.png)
 
@@ -374,18 +419,23 @@ iteration: "v0.1"
 
 ### 核心指标
 
-| 指标 | 数值 | 来源 | 复算说明 |
-|------|------|------|----------|
-| 总用地面积 | 约43.6平方公里 | geometry/site_boundary.geojson | 从site_boundary几何复算 |
-| 绿地比例 | 约35%（概念建议） | geometry/green_space.geojson | 从green_space几何复算 |
-| 公共空间比例 | 约20%（概念建议） | geometry/public_space.geojson | 从public_space几何复算 |
-| AI场景节点数 | 10+ | 本方案设计 | 见场景卡清单 |
-| AI朝圣地标数 | 3 | 本方案设计 | 见地标设计 |
-| 年度活动数 | 4+ | 本方案设计 | 见活动体系 |
+**重要说明**：本方案区分两个范围层级——统筹研究范围（公告定义，约43.6平方公里）和临时几何模型范围（当前提交，约11.412825平方公里）。以下指标分别标注来源和置信度。
 
-注：绿地比例和公共空间比例为概念建议，具体数值需待官方数据确认后精确复算。[metric:green_ratio] [metric:public_space_ratio]
+| 指标 | 数值 | 来源 | 置信度 | 说明 |
+|------|------|------|--------|------|
+| 统筹研究范围 | 约43.6平方公里 | 公告文本 | 概念引用 | 公告定义的研究范围，非几何复算 |
+| 临时几何模型范围 | 约11.412825平方公里 | geometry/site_boundary.geojson | provisional_only | 当前临时边界，待官方数据替换 |
+| 绿地比例（概念目标） | 约35% | 概念设计 | 设想 | 作为设计愿景，非当前几何复算值 |
+| 绿地比例（临时模型值） | 约12.3423% | geometry/green_space.geojson | provisional_only | 基于临时边界的几何模型值 |
+| 公共空间比例（概念目标） | 约20% | 概念设计 | 设想 | 作为设计愿景，非当前几何复算值 |
+| 公共空间比例（临时模型值） | 约7.3281% | geometry/public_space.geojson | provisional_only | 基于临时边界的几何模型值 |
+| AI场景节点数 | 10 | 本方案设计 | 已确定 | 见场景卡清单 |
+| AI朝圣地标数 | 3 | 本方案设计 | 已确定 | 见地标设计 |
+| 年度活动数 | 4 | 本方案设计 | 已确定 | 见活动体系 |
 
-![核心指标证据图](assets/figures/metrics-evidence.png)
+注：35%/20%为概念设计愿景，12.3423%/7.3281%为当前临时几何模型值。正式数据发布后需重新复算。[metric:green_ratio] [metric:public_space_ratio]
+
+![核心指标证据图，展示临时模型值与概念目标的差异](assets/figures/metrics-evidence.png)
 
 ## 更新项目清单、实施政策与分期计划
 
@@ -393,35 +443,42 @@ iteration: "v0.1"
 
 ### 近期（1-2年）
 
-| 项目 | 类型 | 位置 |
-|------|------|------|
-| 京张遗址公园一期 | 公共空间 | 铁轨沿线 |
-| 「智光·她」雕塑 | 地标建设 | AI原点社区 |
-| 智轨之门 | 地标建设 | 遗址公园入口 |
-| 铁轨记忆廊一期 | 历史体验 | 遗址公园中段 |
+| 项目 | 类型 | 位置 | 建议责任角色 | 前置条件 | 决策门 | 成本等级 | 成功指标 |
+|------|------|------|-------------|---------|--------|---------|---------|
+| 京张遗址公园一期 | 公共空间 | 铁轨沿线 | 海淀区政府 | 文物保护审批、土地权属确认 | 规划审批 | 中等 | 公共空间开放、人流量 |
+| 「智光·她」雕塑 | 地标建设 | AI原点社区 | 政府+艺术团队 | 文物保护评估、消防审批 | 专业论证 | 高 | 观众满意度、安全运行 |
+| 智轨之门 | 地标建设 | 遗址公园入口 | 政府+设计团队 | 结构安全论证、无障碍审批 | 专业论证 | 中等 | 观众满意度、安全运行 |
+| 铁轨记忆廊一期 | 历史体验 | 遗址公园中段 | 政府+文保单位 | 文物保护评估、历史内容审核 | 文保审批 | 中等 | 参观者满意度、历史准确性 |
 
 ### 中期（3-5年）
 
-| 项目 | 类型 | 位置 |
-|------|------|------|
-| 众智园AI算力中心 | 产业设施 | 众智园 |
-| 粒子纪念树 | 荣誉展示 | AI原点社区广场 |
-| 大钟寺AI体验街 | 产业空间 | 大钟寺 |
-| 小月河AI场景公园 | 公共空间 | 小月河翼 |
+| 项目 | 类型 | 位置 | 建议责任角色 | 前置条件 | 决策门 | 成本等级 | 成功指标 |
+|------|------|------|-------------|---------|--------|---------|---------|
+| 众智园AI算力中心 | 产业设施 | 众智园 | AI企业+政府 | 能源供应、环评审批 | 专业论证 | 高 | 算力利用率、企业入驻率 |
+| 粒子纪念树 | 荣誉展示 | AI原点社区广场 | 政府+技术团队 | 结构安全论证、消防审批 | 专业论证 | 中等 | 参与者满意度、技术稳定性 |
+| 大钟寺AI体验街 | 产业空间 | 大钟寺 | 商业运营方 | 商业可行性论证、招商 | 商业决策 | 中等 | 商户入驻率、消费额 |
+| 小月河AI场景公园 | 公共空间 | 小月河翼 | 政府+社区 | 环评审批、社区参与 | 规划审批 | 中等 | 居民满意度、使用率 |
 
 ### 远期（5-10年）
 
-| 项目 | 类型 | 位置 |
-|------|------|------|
-| AI全域无人驾驶示范区 | 基础设施 | 全区域 |
-| 国际AI创新中心 | 产业设施 | AI原点社区 |
+| 项目 | 类型 | 位置 | 建议责任角色 | 前置条件 | 决策门 | 成本等级 | 成功指标 |
+|------|------|------|-------------|---------|--------|---------|---------|
+| AI全域无人驾驶示范区 | 基础设施 | 全区域 | 交通部门+企业 | 法规制定、安全测试 | 政策决策 | 高 | 安全运行率、公众接受度 |
+| 国际AI创新中心 | 产业设施 | AI原点社区 | 政府+国际机构 | 国际合作协议、资金 | 政策决策 | 高 | 国际合作项目数、人才流入 |
+
+**运维主体与退出机制**：
+- 所有项目需明确运维责任主体，建立定期评估机制
+- 项目失败或不可持续时，启动退出程序，包括资产处置、人员安置和信息公开
+- 年度评估不达标项目需制定整改计划或启动退出
 
 ### 年度活动体系
 
-| 活动 | 时间 | 内容 |
-|------|------|------|
-| 京张纪念周 | 5月 | 历史分享会、女性建设者纪念、铁路文物展 |
-| AI科创周 | 8月 | 开源沙龙、AI成果展示、开发者马拉松 |
+| 活动 | 时间 | 内容 | 运维主体 | 开放准入 | 退出机制 |
+|------|------|------|---------|---------|---------|
+| 京张纪念周 | 5月 | 历史分享会、女性建设者纪念、铁路文物展 | 政府+文保单位 | 免费开放，无需预约 | 参与人数持续低时调整形式 |
+| AI科创周 | 8月 | 开源沙龙、AI成果展示、开发者马拉松 | 开发者社区+企业 | 开发者免费，公众预约 | 参与度低时调整形式 |
+| 四季光影展演 | 1/4/7/10月 | 粒子装置特别展演、夜间灯光秀 | 政府+技术团队 | 免费开放 | 技术故障时降级为静态展示 |
+| 智轨峰会 | 11月 | 全球AI城市论坛+开发者大会+颁奖典礼 | 政府+行业协会 | 付费+邀请制 | 参与度低时调整形式 |
 | 四季光影展演 | 1/4/7/10月 | 粒子装置特别展演、夜间灯光秀 |
 | 智轨峰会 | 11月 | 全球AI城市论坛+开发者大会+颁奖典礼 |
 
